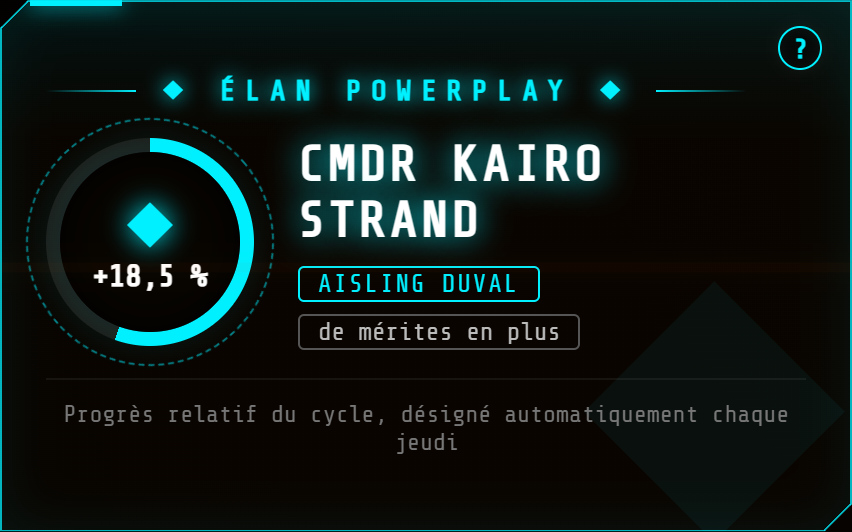
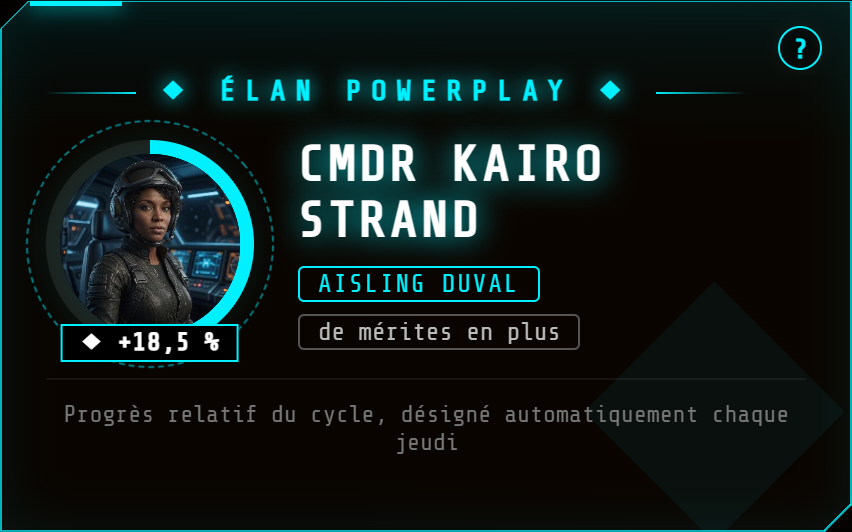
Presentation : anecdotes, portraits, COVAS, donnees (photo, anecdotes IA, statistiques du Directeur), FAQ, 9 captures regenerees ; accueil indexable avec le nom du site pour Google

diff --git a/presentation.html b/presentation.html
@@ -4,7 +4,7 @@
     <meta charset="UTF-8">
     <meta name="viewport" content="width=device-width, initial-scale=1.0">
     <title>SYS.EDTEAM — Outil communautaire gratuit pour escadrons Elite Dangerous</title>
-    <meta name="description" content="SYS.EDTEAM est l'outil communautaire gratuit pour les escadrons Elite Dangerous : suivi BGS avec le résultat du jeu sur chaque directive, QG de commandement, Powerplay 2.0, renseignement tactique et assistant COVAS embarqué. Installation en 2 minutes via EDMC.">
+    <meta name="description" content="SYS.EDTEAM est l'outil communautaire gratuit pour les escadrons Elite Dangerous : suivi BGS avec le résultat du jeu sur chaque directive, QG de commandement, Powerplay 2.0, renseignement tactique et alerte COVAS en jeu. Installation en 2 minutes via EDMC.">
     <link rel="icon" href="icon-192.png" type="image/png">
 
     <!-- Open Graph / Discord & réseaux sociaux -->
@@ -13,14 +13,18 @@
     <meta property="og:locale" content="fr_FR">
     <meta property="og:site_name" content="SYS.EDTEAM">
     <meta property="og:title" content="SYS.EDTEAM — Outil communautaire pour escadrons Elite Dangerous">
-    <meta property="og:description" content="Suivi BGS avec le résultat du jeu sur chaque directive, QG de commandement, Powerplay 2.0, renseignement tactique et assistant COVAS embarqué. Gratuit, installation en 2 minutes via EDMC.">
+    <meta property="og:description" content="Suivi BGS avec le résultat du jeu sur chaque directive, QG de commandement, Powerplay 2.0, renseignement tactique et alerte COVAS en jeu. Gratuit, installation en 2 minutes via EDMC.">
     <meta property="og:image" content="https://edteam-portal.github.io/images/qg.png">
     <meta property="og:url" content="https://edteam-portal.github.io/presentation.html">
     <meta name="twitter:card" content="summary_large_image">
     <meta name="twitter:title" content="SYS.EDTEAM — Outil communautaire pour escadrons Elite Dangerous">
-    <meta name="twitter:description" content="Suivi BGS avec le résultat du jeu sur chaque directive, QG de commandement, Powerplay 2.0, renseignement tactique et assistant COVAS embarqué. Gratuit, installation en 2 minutes via EDMC.">
+    <meta name="twitter:description" content="Suivi BGS avec le résultat du jeu sur chaque directive, QG de commandement, Powerplay 2.0, renseignement tactique et alerte COVAS en jeu. Gratuit, installation en 2 minutes via EDMC.">
     <meta name="twitter:image" content="https://edteam-portal.github.io/images/qg.png">
     <link rel="canonical" href="https://edteam-portal.github.io/presentation.html">
+
+    <script type="application/ld+json">
+    { "@context": "https://schema.org", "@type": "WebSite", "name": "SYS.EDTEAM", "alternateName": ["EDTEAM", "SYS EDTEAM"], "url": "https://edteam-portal.github.io/", "inLanguage": "fr" }
+    </script>
 
     <script type="application/ld+json">
     {
@@ -29,7 +33,7 @@
         "name": "SYS.EDTEAM",
         "applicationCategory": "UtilitiesApplication",
         "operatingSystem": "Windows (plugin EDMC) + Web",
-        "description": "Outil communautaire gratuit pour escadrons Elite Dangerous : suivi BGS avec le résultat du jeu sur chaque directive, QG de commandement, Powerplay 2.0, renseignement tactique et assistant COVAS embarqué.",
+        "description": "Outil communautaire gratuit pour escadrons Elite Dangerous : suivi BGS avec le résultat du jeu sur chaque directive, QG de commandement, Powerplay 2.0, renseignement tactique et alerte COVAS en jeu.",
         "offers": { "@type": "Offer", "price": "0", "priceCurrency": "EUR" },
         "url": "https://edteam-portal.github.io/presentation.html",
         "inLanguage": "fr"
@@ -88,6 +92,14 @@
                 "acceptedAnswer": {
                     "@type": "Answer",
                     "text": "Par cinq systèmes complémentaires : les états de service (une plaque par opération clôturée), le mur des spécialistes (sept titres), le Pilier de la semaine et l'Élan Powerplay (deux distinctions chaque jeudi, sur la fiche du pilote et dans le journal tactique), et le rang BGS de carrière (de 1 à 100, permanent, calculé sur l'ensemble des efforts)."
+                }
+            },
+            {
+                "@type": "Question",
+                "name": "Photo et anecdotes : qui voit quoi ?",
+                "acceptedAnswer": {
+                    "@type": "Answer",
+                    "text": "La photo de commandant est facultative : elle est visible par votre escadron et par les pilotes de votre puissance, et vous pouvez la retirer quand vous voulez. Les anecdotes sont de courtes histoires de roleplay écrites par une IA à partir d'un fait réel de votre activité, visibles seulement par votre escadron ; vous pouvez refuser d'y apparaître à tout moment."
                 }
             },
             {
@@ -429,12 +441,12 @@
                 <button class="module" data-p="progresser" data-m="elan" data-for="squad officier"><span>Élan Powerplay</span><span class="pour">POUR VOUS</span></button>
                 <button class="module" data-p="progresser" data-m="rang" data-for="squad officier"><span>Rang BGS de carrière</span><span class="pour">POUR VOUS</span></button>
                 <button class="module" data-p="connecte" data-m="mobile" data-for="solo squad officier"><span>Compagnon mobile</span><span class="pour">POUR VOUS</span></button>
-                <button class="module" data-p="connecte" data-m="covas" data-for="squad officier"><span>IA embarquée (COVAS)</span><span class="pour">POUR VOUS</span></button>
+                <button class="module" data-p="connecte" data-m="covas" data-for="squad officier"><span>COVAS embarqué</span><span class="pour">POUR VOUS</span></button>
                 </div>
                 <div class="detail" id="detail">
                 <article class="panel" id="module-qg" data-p="commander" data-m="qg">
                     <div class="ecran-d"><div class="cadre-d"><img class="on" data-i="0" src="images/qg.png" alt="Quartier général (écran 1)"><img class="" data-i="1" src="images/puissance-faction.png" alt="Ma puissance, Ma faction et Quoi faire (écran 2)" loading="lazy"></div><div class="vignettes"><button class="on" data-i="0" style="background-image:url('images/qg.png')" aria-label="Écran 1"></button><button class="" data-i="1" style="background-image:url('images/puissance-faction.png')" aria-label="Écran 2"></button></div></div>
-                    <span class="kick">// MODULE 01 : SUPERVISION</span><h3>VISION STRATÉGIQUE</h3><p>Votre <strong>Quartier Général</strong> résume votre carrière d'un coup d'œil : rangs Powerplay, BGS, Fédération et auxiliaires dans l'en-tête (un clic ouvre le détail, sur toutes les pages), le <strong>nom de votre escadron</strong> et vos grades. En tête de page, trois cartes : <strong>Ma puissance</strong> (le portrait de votre puissance, son classement parmi les douze et la répartition de ses systèmes), <strong>Ma faction</strong> (le logo de votre escadron, déposé par l'Amiral, et les chiffres de votre faction) et <strong>Quoi faire</strong>.</p><p>Le <strong>Pilier de la semaine</strong> et l'<strong>Élan Powerplay</strong> sont mis à l'honneur, les <strong>chiffres clés</strong> tiennent sur un seul écran, et le <strong>Journal Tactique</strong> diffuse en direct les directives, les distinctions et le bilan du réseau. Chaque jeudi, une fenêtre vous présente la <strong>nouvelle édition d'EDNews</strong> de votre escadron.</p><p class="note-sobre" style="font-size:.85em;color:#8a9;">Les chiffres de puissance et de faction viennent de la base communautaire Spansh, relevée chaque jour : ils peuvent avoir quelques jours de retard sur le jeu.</p>
+                    <span class="kick">// MODULE 01 : SUPERVISION</span><h3>VISION STRATÉGIQUE</h3><p>Votre <strong>Quartier Général</strong> résume votre carrière d'un coup d'œil : rangs Powerplay, BGS, Fédération et auxiliaires dans l'en-tête (un clic ouvre le détail, sur toutes les pages), le <strong>nom de votre escadron</strong> et vos grades. En tête de page, trois cartes : <strong>Ma puissance</strong> (le portrait de votre puissance, son classement parmi les douze et la répartition de ses systèmes), <strong>Ma faction</strong> (le logo de votre escadron, déposé par l'Amiral, et les chiffres de votre faction) et <strong>Quoi faire</strong>.</p><p>Le <strong>Pilier de la semaine</strong> et l'<strong>Élan Powerplay</strong> sont mis à l'honneur, les <strong>chiffres clés</strong> tiennent sur un seul écran, et le <strong>Journal Tactique</strong> diffuse en direct les directives, les distinctions et le bilan du réseau. Chaque jeudi, une fenêtre vous présente la <strong>nouvelle édition d'EDNews</strong> de votre escadron. Plusieurs fois par semaine, une <strong>anecdote de l'escadron</strong> raconte, en courte histoire de roleplay, un fait réel d'un pilote (une livraison, un combat…) : chacun peut refuser d'y apparaître.</p><p class="note-sobre" style="font-size:.85em;color:#8a9;">Les chiffres de puissance et de faction viennent de la base communautaire Spansh, relevée chaque jour : ils peuvent avoir quelques jours de retard sur le jeu, dont le panneau fait foi.</p>
                 </article>
                 <article class="panel" id="module-qf" data-p="commander" data-m="qf">
                     <div class="ecran-d"><div class="cadre-d"><img class="on" data-i="0" src="images/quoi-faire.png" alt="Quoi faire : recommandations" loading="lazy"></div></div>
@@ -455,7 +467,7 @@
                 </article>
                 <article class="panel" id="module-esc" data-p="commander" data-m="esc">
                     <div class="ecran-d"><div class="cadre-d"><img class="on" data-i="0" src="images/escadron.png" alt="Escadron" loading="lazy"></div></div>
-                    <span class="kick">// MODULE 07 : ESCADRON</span><h3>VOTRE ÉQUIPAGE</h3><p>La page <strong>Escadron</strong> présente chaque pilote sur une carte : grade, rang BGS avec sa progression, rang Powerplay, titres de spécialiste, plaques de campagne et activité de la semaine.</p><p>Recherchez un pilote, triez (rôle, points de la semaine, nom) et filtrez (actifs cette semaine, officiers, avec titre). Un clic ouvre la fiche : carrière BGS, Powerplay, architecte de colonisation, titres, plaques et distinctions.</p>
+                    <span class="kick">// MODULE 07 : ESCADRON</span><h3>VOTRE ÉQUIPAGE</h3><p>La page <strong>Escadron</strong> présente chaque pilote sur une carte, avec son <strong>portrait</strong> (la photo de commandant est facultative) : grade, rang BGS avec sa progression, rang Powerplay, titres de spécialiste, plaques de campagne et activité de la semaine.</p><p>Recherchez un pilote, triez (rôle, points de la semaine, nom) et filtrez (actifs cette semaine, officiers, avec titre). Un clic ouvre la fiche : carrière BGS, Powerplay, architecte de colonisation, titres, plaques et distinctions. Les portraits apparaissent aussi sur le mur des spécialistes, le Pilier, l'Élan et les classements.</p>
                 </article>
                 <article class="panel" id="module-colo" data-p="construire" data-m="colo">
                     <div class="ecran-d"><div class="cadre-d"><img class="on" data-i="0" src="images/colonisation.png" alt="Colonisation (écran 1)" loading="lazy"><img class="" data-i="1" src="images/colonisation-detail.png" alt="Colonisation (écran 2)" loading="lazy"></div><div class="vignettes"><button class="on" data-i="0" style="background-image:url('images/colonisation.png')" aria-label="Écran 1"></button><button class="" data-i="1" style="background-image:url('images/colonisation-detail.png')" aria-label="Écran 2"></button></div></div>
@@ -491,7 +503,7 @@
                 </article>
                 <article class="panel" id="module-covas" data-p="connecte" data-m="covas">
                     <div class="ecran-d"><div class="cadre-d"><div class="fiche-faux"><div style="color:#FF3333;font-size:1.1em;font-weight:bold;border-bottom:1px dashed #FF3333;padding-bottom:5px;margin-bottom:14px;letter-spacing:2px;display:flex;justify-content:space-between;"><span>⚠ ALERTE TACTIQUE</span><span style="opacity:.5;">SYS.EDTEAM</span></div><div style="margin-bottom:16px;color:#ddd;">CIBLE VERROUILLÉE : <strong style="color:#fff;">CMDR GRIMLOCK VANE</strong> <span style="color:#FF7100;font-size:.85em;margin-left:8px;">[ CRVR ]</span></div><div style="padding:14px;background:rgba(0,0,0,.5);border:1px solid #333;"><div style="display:flex;justify-content:space-between;margin-bottom:12px;"><span style="color:#888;font-size:.85em;">DOSSIER INDIVIDUEL :</span><strong style="color:#000;background:#FF3333;padding:2px 8px;border-radius:2px;box-shadow:0 0 10px #FF3333;">K.O.S (HOSTILE)</strong></div><div style="display:flex;justify-content:space-between;"><span style="color:#888;font-size:.85em;">RÉSEAU EDTEAM :</span><strong style="color:#000;background:#00F0FF;padding:2px 8px;border-radius:2px;box-shadow:0 0 10px #00F0FF;">✓ RÉPERTORIÉ</strong></div></div><div style="color:#555;font-size:.8em;margin-top:16px;font-weight:bold;text-align:center;">[ ANALYSE COMPLÈTE... ] _</div></div></div></div>
-                    <span class="kick">// MODULE 03 : IA EMBARQUÉE</span><h3>ASSISTANCE HOLOGRAPHIQUE EN DIRECT</h3><p><strong>Verrouillage tactique</strong> : ciblez un vaisseau, le COVAS affiche sa fiche de renseignement et s'il est répertorié sur EDTEAM. Ne tirez plus à l'aveugle.</p>
+                    <span class="kick">// MODULE 03 : COVAS EMBARQUÉ</span><h3>ASSISTANCE HOLOGRAPHIQUE EN DIRECT</h3><p><strong>Verrouillage tactique</strong> : ciblez un vaisseau, le COVAS affiche sa fiche de renseignement et s'il est répertorié sur EDTEAM. Ne tirez plus à l'aveugle.</p>
                 </article>
                 </div>
             </div>
@@ -514,6 +526,8 @@
                     <li>Toujours depuis le plugin : à son démarrage, il relit en local vos journaux de jeu des dernières semaines pour retrouver les mérites Powerplay que vous avez gagnés sans EDMC, cycle par cycle. Seuls le total de mérites et le rang de chaque cycle sont envoyés, jamais le contenu de vos journaux.</li>
                     <li>Pour la colonisation (plugin 2.5 ou plus) : l'état des chantiers que vous consultez (station, système, avancement, marchandises), vos livraisons (marchandise, tonnage, date), les systèmes que vous revendiquez et leur position dans la galaxie, la faction qui les contrôle, et les stations terminées de votre escadron où vous vous amarrez (seulement dans un système déjà colonisé). Rien n'est enregistré pour un pilote sans escadron.</li>
                     <li>Pour le budget (plugin 2.5 ou plus) : chaque mouvement d'argent de votre compte (vente, achat, mission, prime, réparation, carburant…) avec sa date, son montant, sa catégorie et le lieu où il a eu lieu, ainsi que les totaux par cycle et votre solde. Ces données ne sont lisibles que par vous.</li>
+                    <li>Si vous le souhaitez : une <strong>photo de commandant</strong> que vous envoyez vous-même (recadrée en carré et réduite à 256 pixels). Elle est facultative et vous pouvez la retirer à tout moment.</li>
+                    <li>Pour les anecdotes de l'escadron : un court texte écrit par une IA (service Gemini de Google) à partir d'un fait de vos dernières 48 heures déjà visible par votre escadron (livraison de colonisation, zone de conflit, économie…), avec votre nom de CMDR et celui de l'escadron. Elle ne reçoit jamais votre position, votre vaisseau, vos finances, votre e-mail ni votre clé. Vous pouvez <strong>refuser d'apparaître</strong> dans les anecdotes (« Gestion du compte » sur PC, « Réglages » sur mobile) : vos anecdotes déjà écrites sont alors effacées.</li>
                     <li>Pour les résultats des directives BGS : aucune donnée de votre compte. Notre serveur relève deux fois par jour l'influence des factions dans les systèmes visés par les directives, à partir d'EDSM, une base communautaire publique.</li>
                 </ul>
                 <p style="margin-bottom: 30px;"><strong style="color:#fff;">Ce que nous ne recevons pas :</strong> vos identifiants Frontier, le contenu de vos discussions en jeu, ni aucun fichier de votre ordinateur.</p>
@@ -526,7 +540,8 @@
                     <li>Les autres pilotes ne voient que votre nom de CMDR dans la liste des destinataires. Dans le tableau Powerplay, ils voient votre nom, votre rang et vos mérites (du cycle et cumulés), uniquement si vous êtes de la même puissance. Votre historique par cycle (« Ma progression ») n'est lisible que par vous.</li>
                     <li>Les membres d'un escadron voient les chantiers de colonisation de cet escadron, avec le nom des pilotes qui y ont livré et le tonnage de chacun. Les autres escadrons n'en voient rien. Un pilote sans escadron a son propre espace de colonisation, lisible par lui seul.</li>
                     <li>Votre budget (revenus, charges, livre de compte) n'est lisible que par vous : ni les membres de votre escadron, ni l'Amiral, ni le Directeur ne le voient sur le site.</li>
-                    <li>Le Directeur de l'application peut consulter les fiches pour l'administrer.</li>
+                    <li>Votre photo est visible par les membres de votre escadron et par les pilotes de votre puissance Powerplay. Les anecdotes ne sont visibles que par votre escadron (les 30 derniers jours). L'Amiral de votre escadron peut retirer une photo ou supprimer une anecdote de son escadron, et le Directeur peut retirer n'importe quelle photo.</li>
+                    <li>Le Directeur de l'application peut consulter les fiches pour l'administrer. Il consulte aussi des statistiques d'usage par escadron (nombre de pilotes actifs, volumes d'activité), sans aucun détail individuel.</li>
                 </ul>
 
                 <p style="margin-bottom: 0;">Le plugin ne tourne que lorsque EDMC est lancé, et vous pouvez le retirer à tout moment. Vous pouvez modifier votre email, votre mot de passe ou <strong style="color:#fff;">supprimer votre compte</strong> depuis « Gestion du compte » : vos données sont alors effacées.</p>
@@ -549,6 +564,8 @@
                 <p style="margin: 0 0 26px;">Votre adresse email et des informations tirées de votre journal de jeu. Le détail, ce que voient les autres pilotes et la suppression du compte sont décrits dans la section <a href="#vos-donnees" style="color: var(--ed-blue);">« Vos données »</a>.</p>
                 <h3 style="color: #fff; font-size: 1em; letter-spacing: 2px; margin: 0 0 6px;">COMMENT SONT RÉCOMPENSÉS LES PILOTES ?</h3>
                 <p style="margin: 0 0 26px;">Par cinq systèmes complémentaires : les états de service (une plaque par opération clôturée), le mur des spécialistes (sept titres), le Pilier de la semaine et l'Élan Powerplay (deux distinctions chaque jeudi, sur la fiche du pilote et dans le journal tactique), et le rang BGS de carrière (de 1 à 100, permanent, calculé sur l'ensemble des efforts).</p>
+                <h3 style="color: #fff; font-size: 1em; letter-spacing: 2px; margin: 0 0 6px;">PHOTO ET ANECDOTES : QUI VOIT QUOI ?</h3>
+                <p style="margin: 0 0 26px;">La photo de commandant est facultative : elle est visible par votre escadron et par les pilotes de votre puissance, et vous pouvez la retirer quand vous voulez. Les anecdotes sont de courtes histoires de roleplay écrites par une IA à partir d'un fait réel de votre activité, visibles seulement par votre escadron ; vous pouvez refuser d'y apparaître à tout moment.</p>
                 <h3 style="color: #fff; font-size: 1em; letter-spacing: 2px; margin: 0 0 6px;">FONCTIONNE-T-IL SUR MOBILE ?</h3>
                 <p style="margin: 0 0 26px;">Oui. Le compagnon mobile reprend l'accueil (rangs, finances, Pilier, Élan), les directives avec leur résultat dans le jeu et votre effort BGS, la colonisation, le budget, l'escadron et la recommandation « Quoi faire », depuis un téléphone.</p>
             </div>

diff --git a/index.html b/index.html
@@ -28,8 +28,12 @@
     
     <link rel="manifest" href="manifest.json?v=3">
     <link rel="stylesheet" href="style.css?v=3">
-    <title>SYS.EDTEAM — Connexion</title>
-    <meta name="robots" content="noindex, follow">
+    <title>SYS.EDTEAM — Outil communautaire pour escadrons Elite Dangerous</title>
+    <meta name="description" content="SYS.EDTEAM est l'outil communautaire gratuit pour les escadrons Elite Dangerous : suivi BGS, QG de commandement, Powerplay 2.0, colonisation et budget, relevés automatiquement via le plugin EDMC.">
+    <!-- Accueil du site : indexable (le nom du site ci-dessous est lu par Google). Les visiteurs sans session sont envoyés vers presentation.html par l'aiguilleur de l'en-tête. -->
+    <script type="application/ld+json">
+    { "@context": "https://schema.org", "@type": "WebSite", "name": "SYS.EDTEAM", "alternateName": ["EDTEAM", "SYS EDTEAM"], "url": "https://edteam-portal.github.io/", "inLanguage": "fr" }
+    </script>
     
     <script src="https://cdn.jsdelivr.net/npm/@supabase/supabase-js@2"></script>
     <script src="shared-utils.js?v=3"></script>
